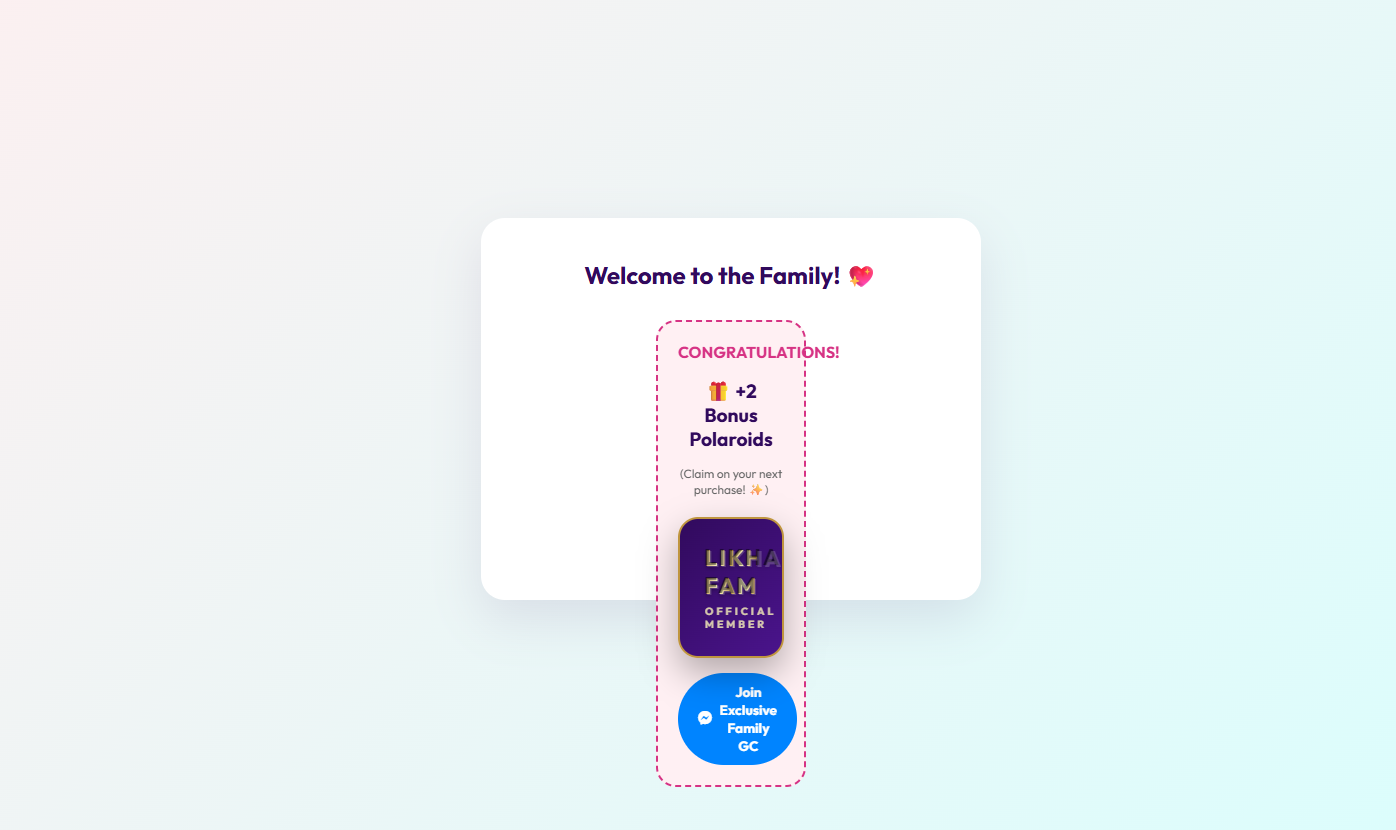
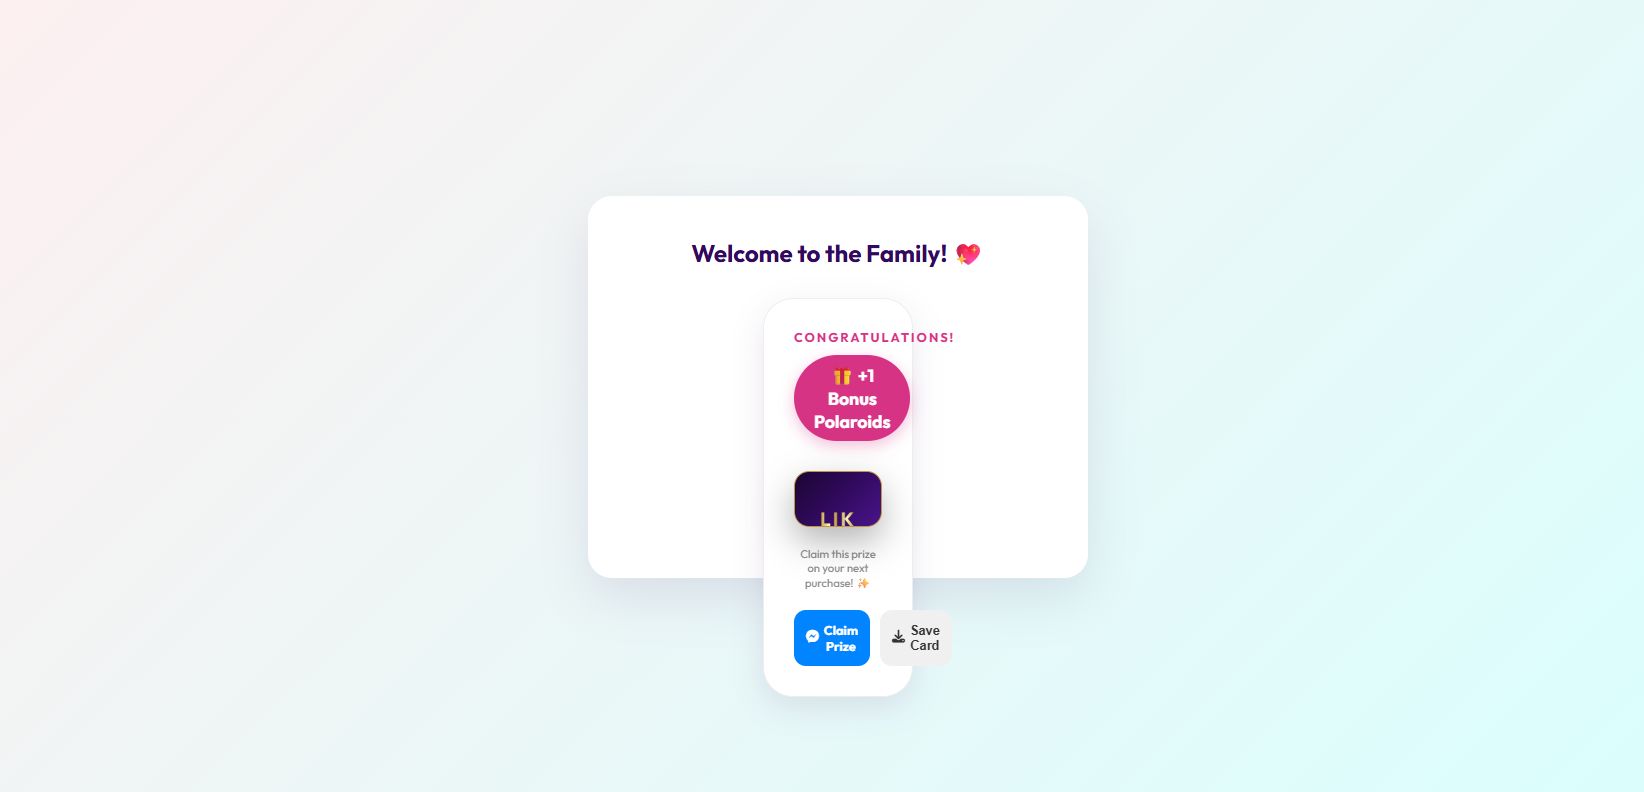
Fixed VIP reveal layout conflict and implemented high-hierarchy landscape UI with download and claim      features

Changed region(s): [[0.3388, 0.2727, 0.7085, 0.9697]]

diff --git a/review.html b/review.html
@@ -215,32 +215,33 @@
         .reveal-content {
             display: none;
             background: white;
-            padding: 30px;
-            border-radius: 30px;
-            box-shadow: 0 10px 30px rgba(49, 10, 93, 0.1);
+            padding: 40px 30px;
+            border-radius: 35px;
+            box-shadow: 0 15px 45px rgba(49, 10, 93, 0.15);
             animation: popIn 0.6s cubic-bezier(0.175, 0.885, 0.32, 1.275) forwards;
-            max-width: 450px;
+            max-width: 460px;
             width: 100%;
-            border: 1px solid #eee;
+            border: 1px solid #f0f0f0;
+            margin: 20px auto;
         }
 
         @keyframes popIn {
-            0% { transform: scale(0.5); opacity: 0; }
+            0% { transform: scale(0.8); opacity: 0; }
             100% { transform: scale(1); opacity: 1; }
         }
 
         /* Luxury VIP Card - Landscape */
         .vip-card-wrapper {
             perspective: 1000px;
-            margin: 20px 0;
+            margin: 25px 0;
         }
 
         .vip-card {
             width: 100%;
-            aspect-ratio: 1.58 / 1; /* Standard Credit Card Ratio */
+            aspect-ratio: 1.58 / 1;
             background: linear-gradient(135deg, #1a0633 0%, #310a5d 50%, #4a148c 100%);
-            border-radius: 15px;
-            padding: 25px;
+            border-radius: 20px;
+            padding: 30px;
             position: relative;
             overflow: hidden;
             display: flex;
@@ -248,30 +249,36 @@
             justify-content: space-between;
             text-align: left;
             border: 1px solid #bf953f;
-            box-shadow: 0 15px 35px rgba(0,0,0,0.3);
+            box-shadow: 0 10px 30px rgba(0,0,0,0.4);
         }
 
         .card-chip {
-            width: 45px;
-            height: 35px;
+            width: 50px;
+            height: 40px;
             background: linear-gradient(135deg, #fcf6ba, #bf953f);
-            border-radius: 5px;
+            border-radius: 8px;
             margin-bottom: 10px;
+            position: relative;
+        }
+
+        .card-chip::after {
+            content: '';
+            position: absolute;
+            top: 50%; left: 0; width: 100%; height: 1px; background: rgba(0,0,0,0.1);
         }
 
         .metallic-text {
             background: linear-gradient(to right, #bf953f, #fcf6ba, #b38728, #fbf5b7, #aa771c);
             -webkit-background-clip: text;
             -webkit-text-fill-color: transparent;
-            font-weight: 800;
+            font-weight: 900;
             text-transform: uppercase;
-            letter-spacing: 2px;
+            letter-spacing: 3px;
         }
 
-        .vip-card .card-name { font-size: 1.2rem; }
-        .vip-card .card-status { font-size: 0.6rem; opacity: 0.8; letter-spacing: 3px; }
+        .vip-card .card-name { font-size: 1.5rem; line-height: 1; }
+        .vip-card .card-status { font-size: 0.7rem; opacity: 0.9; letter-spacing: 4px; margin-top: 5px; }
 
-        /* Holographic Shimmer */
         .vip-card::after {
             content: '';
             position: absolute;
@@ -286,66 +293,68 @@
                 transparent 55%
             );
             transform: rotate(-45deg);
-            animation: holo-shimmer 5s infinite linear;
-        }
-
-        @keyframes holo-shimmer {
-            0% { transform: translateX(-100%) translateY(-100%) rotate(-45deg); }
-            100% { transform: translateX(100%) translateY(100%) rotate(-45deg); }
+            animation: holo-shimmer 6s infinite linear;
         }
 
         .reward-badge {
             display: inline-block;
             background: var(--accent-pink);
             color: white;
-            padding: 8px 20px;
+            padding: 12px 25px;
             border-radius: 50px;
-            font-weight: 700;
-            font-size: 1.1rem;
-            margin: 10px 0;
-            box-shadow: 0 5px 15px rgba(214, 51, 132, 0.3);
+            font-weight: 800;
+            font-size: 1.3rem;
+            margin: 15px 0;
+            box-shadow: 0 8px 20px rgba(214, 51, 132, 0.4);
+            animation: pulse-reward 2s infinite;
+        }
+
+        @keyframes pulse-reward {
+            0% { transform: scale(1); }
+            50% { transform: scale(1.05); }
+            100% { transform: scale(1); }
         }
 
         .action-btns {
             display: grid;
-            grid-template-columns: 1fr 1fr;
-            gap: 10px;
-            margin-top: 20px;
+            grid-template-columns: 1.2fr 1fr;
+            gap: 12px;
+            margin-top: 25px;
         }
 
         .btn-claim {
             background: #0084FF;
             color: white;
-            padding: 12px;
-            border-radius: 12px;
+            padding: 15px;
+            border-radius: 15px;
             text-decoration: none;
-            font-weight: 700;
-            font-size: 0.8rem;
+            font-weight: 800;
+            font-size: 0.9rem;
             display: flex;
             align-items: center;
             justify-content: center;
-            gap: 5px;
-            transition: 0.3s;
+            gap: 8px;
+            transition: 0.3s cubic-bezier(0.175, 0.885, 0.32, 1.275);
         }
 
         .btn-download {
-            background: #f0f0f0;
-            color: #333;
-            padding: 12px;
-            border-radius: 12px;
-            border: none;
-            font-weight: 700;
-            font-size: 0.8rem;
+            background: #f8f9fa;
+            color: #310a5d;
+            padding: 15px;
+            border-radius: 15px;
+            border: 1px solid #eee;
+            font-weight: 800;
+            font-size: 0.9rem;
             cursor: pointer;
             display: flex;
             align-items: center;
             justify-content: center;
-            gap: 5px;
+            gap: 8px;
             transition: 0.3s;
         }
 
-        .btn-claim:hover { background: #0073e6; transform: translateY(-2px); }
-        .btn-download:hover { background: #e0e0e0; transform: translateY(-2px); }
+        .btn-claim:hover { background: #0073e6; transform: scale(1.05); box-shadow: 0 10px 20px rgba(0,132,255,0.3); }
+        .btn-download:hover { background: white; border-color: var(--primary-color); transform: scale(1.05); }
 
         /* --- TESTIMONIAL CARD TEMPLATE (HIDDEN) --- */
         #review-template {
@@ -506,53 +515,56 @@
         </div>
 
         <div id="success-view" class="success-state">
-            <h2 id="success-title">Review Shared! ❤</h2>
+            <h2 id="success-title" style="margin-bottom: 10px;">Review Shared! ❤</h2>
             
+            <!-- Gift Box Zone -->
             <div class="magic-box-container" id="magic-box" onclick="openSurprise()">
                 <div class="gift-box">🎁</div>
-                <div class="reveal-content" id="surprise-reveal">
-                    <!-- High Rating Reward (4-5 Stars) -->
-                    <div id="vip-reward" style="display: none;">
-                        <p style="font-weight: 700; color: var(--accent-pink); font-size: 0.8rem; letter-spacing: 2px;">CONGRATULATIONS!</p>
-                        <div class="reward-badge" id="polaroid-count">🎁 +2 Bonus Polaroids</div>
-                        
-                        <div class="vip-card-wrapper">
-                            <div class="vip-card" id="downloadable-vip-card">
-                                <div class="card-chip"></div>
-                                <div class="card-top">
-                                    <div class="metallic-text card-name">LIKHAIA FAM</div>
-                                    <div class="card-status metallic-text">OFFICIAL MEMBER</div>
-                                </div>
-                                <div class="card-bottom">
-                                    <p style="font-family: monospace; color: #fcf6ba; font-size: 0.7rem; opacity: 0.6;">MEMBER ID: <span id="vip-id"></span></p>
-                                </div>
+            </div>
+
+            <!-- Reveal Zone (Now Outside the Box) -->
+            <div class="reveal-content" id="surprise-reveal">
+                <!-- High Rating Reward (4-5 Stars) -->
+                <div id="vip-reward" style="display: none;">
+                    <p style="font-weight: 700; color: var(--accent-pink); font-size: 0.85rem; letter-spacing: 2px; margin-bottom: 5px;">CONGRATULATIONS!</p>
+                    <div class="reward-badge" id="polaroid-count">🎁 +2 Bonus Polaroids</div>
+                    
+                    <div class="vip-card-wrapper" id="capture-zone">
+                        <div class="vip-card" id="downloadable-vip-card">
+                            <div class="card-chip"></div>
+                            <div class="card-top">
+                                <div class="metallic-text card-name" style="font-size: 1.6rem;">LIKHAIA FAM</div>
+                                <div class="card-status metallic-text">OFFICIAL MEMBER</div>
+                            </div>
+                            <div class="card-bottom">
+                                <p style="font-family: monospace; color: #fcf6ba; font-size: 0.75rem; opacity: 0.7;">MEMBER ID: <span id="vip-id" style="font-weight: bold; letter-spacing: 1px;"></span></p>
                             </div>
                         </div>
-
-                        <p style="font-size: 0.7rem; color: #888; margin-top: 10px;">Claim this prize on your next purchase! ✨</p>
-                        
-                        <div class="action-btns">
-                            <a href="#" id="claim-btn" target="_blank" class="btn-claim">
-                                <i class="fa-brands fa-facebook-messenger"></i> Claim Prize
-                            </a>
-                            <button class="btn-download" onclick="downloadVIPCard()">
-                                <i class="fa-solid fa-download"></i> Save Card
-                            </button>
-                        </div>
                     </div>
 
-                    <!-- Low Rating Note (1-3 Stars) -->
-                    <div id="standard-reward" style="display: none;">
-                        <p style="font-weight: 700; color: var(--primary-color);">Thank You! ❤</p>
-                        <p style="font-size: 0.9rem; margin-top: 10px;">We've received your feedback and will work hard to improve for you!</p>
+                    <p style="font-size: 0.75rem; color: #888; margin-top: 15px; font-weight: 500;">Claim this prize on your next purchase! ✨</p>
+                    
+                    <div class="action-btns">
+                        <a href="#" id="claim-btn" target="_blank" class="btn-claim">
+                            <i class="fa-brands fa-facebook-messenger"></i> Claim Prize
+                        </a>
+                        <button class="btn-download" onclick="downloadVIPCard()">
+                            <i class="fa-solid fa-download"></i> Save Card
+                        </button>
                     </div>
+                </div>
+
+                <!-- Low Rating Note (1-3 Stars) -->
+                <div id="standard-reward" style="display: none;">
+                    <p style="font-weight: 700; color: var(--primary-color); font-size: 1.2rem;">Thank You! ❤</p>
+                    <p style="font-size: 1rem; margin-top: 15px; color: #666; line-height: 1.6;">We've received your feedback and will work hard to improve our crafts for you!</p>
                 </div>
             </div>
 
-            <p id="box-instruction" style="font-size: 0.85rem; font-weight: 600; color: var(--primary-color);">Tap the box for a surprise!</p>
+            <p id="box-instruction" style="font-size: 0.9rem; font-weight: 700; color: var(--primary-color); margin-top: 20px;">Tap the box for a surprise!</p>
             
             <br>
-            <a href="index.html" style="color: var(--accent-pink); font-weight: 600; text-decoration: none; display: inline-block; margin-top: 20px;">Back to Website</a>
+            <a href="index.html" style="color: var(--accent-pink); font-weight: 700; text-decoration: none; display: inline-block; margin-top: 30px; border-bottom: 2px solid transparent; transition: 0.3s;" onmouseover="this.style.borderColor='var(--accent-pink)'" onmouseout="this.style.borderColor='transparent'">Back to Website</a>
         </div>
     </div>
 
@@ -646,6 +658,7 @@
             if (box.classList.contains('opened')) return;
 
             box.classList.add('opened');
+            box.style.display = 'none'; // Hide box to give room to reveal
             reveal.style.display = 'block';
             instruction.style.display = 'none';
 
@@ -688,14 +701,15 @@
             
             try {
                 const canvas = await html2canvas(card, {
-                    scale: 3, // High quality
+                    scale: 4, // Ultra high quality
                     backgroundColor: null,
                     logging: false,
-                    useCORS: true
+                    useCORS: true,
+                    borderRadius: 20
                 });
                 
                 const link = document.createElement('a');
-                link.download = 'Likhaia-VIP-Card.png';
+                link.download = `Likhaia-VIP-${document.getElementById('vip-id').innerText}.png`;
                 link.href = canvas.toDataURL('image/png');
                 link.click();
                 
